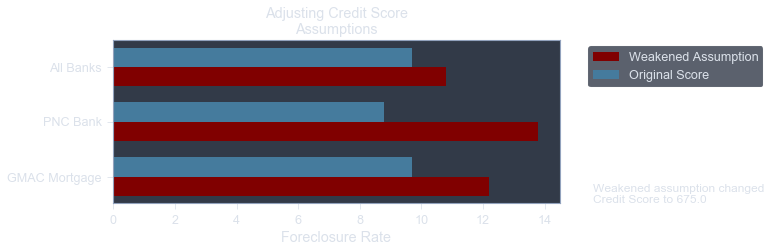
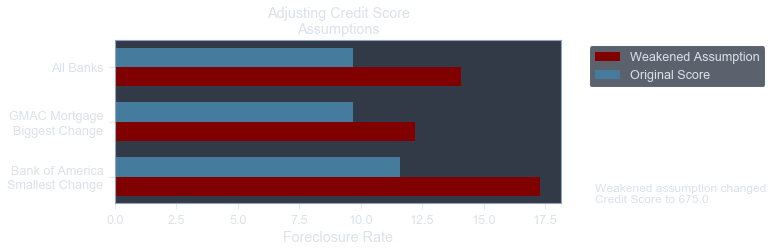
Regular update

diff --git a/Bad_Banking_Behavior/index.html b/Bad_Banking_Behavior/index.html
@@ -179,12 +179,23 @@ if (currentTheme) {
         
             <h1 id="Data">Data</h1>
             <p>
-                Text...
+                Most of the data comes from Fannie Mae’s Loan Acquisition and Performance Data.  This contains the target variable:  mortgage loan foreclosures.  Each observation represents a loan originating or refinanced between 2006-2008.  The Financial Crisis is often noted as occurring between 2007-2009; most loans that lend to housing foreclosures originated or were refinanced only a year to three years before foreclosure, leading to a peak in loans destined for foreclosure occurring in 2007.  Refinanced loans are limited to loans originating in fiscal year 2000 or later.  The data is further limited only to loans made by the nine largest banks at the peak of risking lending (2007).  Features modeled to predict foreclosures are limited to information known at the time of loan origination except for the date of last reporting (i.e., the window in which a foreclosure could have occurred and be in the dataset).  
+                <br><br>
+                Other data was used to model loan foreclosures.  See below for a list of data sources and see <a href=”Data Wrangling.html”>Data Wrangling </a> for information on the ETL process used to gather this data:
+                <br>
+                <ul><blockquote>
+                1) Fannie Mae Loan Acquisition and Performance Data [Individual Mortgage Loans],<br>
+                2) Past Fannie Mae Loan Acquisition Data [Changes in Loan Amounts],<br>
+                3) U.S. Census Bureau, Small Area Estimates Branch [Median Household Income by County],<br>
+                4) Federal Reserve Economic Data (FRED) [Macroeconomic Data related to the Housing Market],<br>
+                5) Federal Deposit Insurance Corporation (FDIC) Data [Information on FDIC-backed Banks]<br>
+                </ul></blockquote>
             </p>
+            <br>
+            
             <h2 id="Foreclosures">Foreclosures</h2>
-		<br><br>
             <p>
-                Mortgages made between 2006 – 2008 foreclosed at a rate of 9.7% among the top 9 banks.  These foreclosures peaked in 2007 at 10.2%.  Note, the research paper and **Data Mining** scripts show that these 9 banks issued loans more likely to be foreclosed upon than smaller banks, increasing this rate from the total U.S. rate.
+                Mortgages made between 2006–2008 foreclosed at a rate of 9.7% among the top 9 banks.  These foreclosures peaked in 2007 at 10.2%.  Note, the research paper and <a href=”Data Mining.html”>Data Mining</a> scripts show that these 9 banks issued loans more likely to be foreclosed upon than smaller banks, increasing this rate from the total U.S. rate.
                 <br><br>
                 Of importance, the average mortgage amount not only grew dramatically since the year 2001, but mortgage amounts on loans that were eventually foreclosed upon increased at a higher rate, matching (and briefly exceeding) the mortgage amounts on loans not foreclosed upon.  This implies that large banks may have been willing to make riskier loans for inflated housing prices.
             </p>
@@ -216,7 +227,6 @@ if (currentTheme) {
 		<br><br>
         
             <h2 id="Banks">Banks</h2>
-		<br><br>
             <p>
                 This research investigates the differences between the 9 largest banks.  Bank of America is the largest as defined by the sheer quantity of loans it made, While PNC is the smallest of the nine (note, this is not factoring in the amount of those loans).
                 <br><br>
@@ -237,14 +247,13 @@ if (currentTheme) {
         
         
             <h1 id="Methodology">Methodology</h1>
-		<br><br>
             <p>
                 The main challenge of modelling mortgage foreclosures is that they represent a rare event – defined as a dichotomous variable in which an occurrence of the event is low relative to cases in which that event could occur.  Consequently, counts in the numerator of the rate are expected to be small by comparison to the denominator.  Such small numerators in a target variable are known to create higher bias in estimation and, when forming a proportion, higher variance (King & Zeng, 2001).  In laymen terms, classification models are likely to become better at predicting non-occurrences than occurrences simply because there are more examples of non-occurrences to learn from.  This results in models over-predicting non-occurrences.  In very imbalanced datasets, this can result in zero predictions of an occurrence.
                 <br><br>
                 Further, the features in the Fannie Mae do not correlate well with foreclosures.  To this end, I linked many features from other data.  Still, it remains is difficult to predict foreclosures without overfitting the training data.  
                 <br><br>
                 To solve these two problems, I use two primary ensembling techniques.  The first, algorithm-based ensembling, rebalances the data to augment foreclosure predictions.  The second uses vote ensembling to increase generalization of each model’s results.            </p>        
-		<br><br>
+		
             <h6>Balancing Predictions</h6>
             <p>
                 The chart below displays a hypothetical dataset in which the target variable occurs at a rate of 20%.  In order to ensure a predictive model remains balanced in its learning from occurrences and non-occurrences, an analyst can use an artificial intervention to balance the classes.  One approach is to draw small samples with balanced classes.  These samples produce relatively weak and simple models, which are then ensembled into stronger predictions.
@@ -269,7 +278,6 @@ if (currentTheme) {
                 <img  id="First_Model_Table" src="Photos/First_Model_Table.png" alt="First_Model_Table" style="width:100%" />        
             </div>
         </div>
-		<br><br>            
             
             <h6>Voting Architecture</h6>
             <p>
@@ -285,9 +293,8 @@ if (currentTheme) {
             <div class="column1">
                 <img  id="Model_Ensembling_Architecture" src="Photos/Model_Ensembling_Architecture.png" alt="Model_Ensembling_Architecture" style="width:100%" />        
             </div>
-        </div>
+        </div>        
         
-        <br><br>
             <h6>Modeling Performance</h6>
         <div class="row">
             <div class="column66">
@@ -308,15 +315,19 @@ if (currentTheme) {
 		<br><br>            
         
         
-            <h1 id="Analysis">Analysis</h1>
+        <h1 id="Analysis">Analysis</h1>
             <p>
-                Analysis was conducted on the full dataset, combining the training, validation, and testing data.  
+                Analysis was conducted on the full dataset, combining the training, validation, and testing data.  Below contains information on five features:  credit score, debt-to-income ratio, loan-to-value ratio, median household income at the 3-digit zip code-level, and the dollar amount change in mortgage loans made 1 year ago and 5 years ago.  The latter feature was created by taking total loan amount during a fiscal year quarter for each bank within a 3-digit zip code.
+                <br><br>
+                Using data mining techniques, each feature was examined at each bank.  Then, the feature was replaced by an improved and a weakened assumption based on the inter-quartile range (25-75 percentiles) of the feature across all banks and predicted probabilities were generated to see what the expected foreclosure rate would be if each banks’ behavior were different.  For example, a high credit score is associated with fewer foreclosures.  Among all banks, the average credit score was 719 (on a scale of 300 to 850).  I modified the credit score at each bank to the 75th percentile—an improved assumption of a 770 credit score—and to the 25th percentile—a weakened assumption of 675 credit score.  I left all other feature values unchanged.  I ran these values through the saved model detailed in the section above and analyzed the change in foreclosure rates.  One can interpret the findings as:  “If GMAC Mortgage only lent to those with a credit score of 770, with all other considerations staying the same, its foreclosure rate is predicted to fall from 9.7% to 1%.”
             </p>
-            <h2 id="Credit-Score">Credit Score</h2>
 		<br><br>
+            <h2 id="Credit-Score">Credit Score</h2>
             <h6>Data Mining</h6>
             <p>
-                Text...
+                Credit score is perhaps the feature most directly associated with the performance of a mortgage loan as it is a measure of one’s past ability to pay off debt.  It contained large difference between loans foreclosed (with an average credit score of 668) and loans not destined to be foreclosed upon (with an average credit score of 722).  However, there is little difference between banks, ranging from the best actor PNC Bank (728) to worst actor GMAC Mortgage (710).  Notably, Wells Fargo Bank, boasting the lowest foreclosure rate, only possesses the third highest credit score, and Flagstar Bank, holding the highest foreclosure rate, only possesses the third lowest credit score.  
+                <br><br>
+                This seems to indicate that a change in targeting individuals with certain credit scores should highly influence foreclosure rates, but that banks appeared unwilling to change their credit score standards if other banks did not follow suit.
             </p>
         <div class="row">
             <div class="column5">
@@ -327,10 +338,9 @@ if (currentTheme) {
                 <img  id="Credit_Score_Bar" src="Photos/Credit_Score_Bar.png" alt="Credit_Score_Bar" style="width:100%" />        
             </div>
         </div>
-		<br><br>
             <h6>Model Predictions</h6>
             <p>
-                Text...
+                Overall, foreclosure rates are predicted to improve from 9.7% to 1.6% if all mortgage holders had a credit score of 770 and weaken to 14.1% if all mortgage holder had a credit score of 675.  The bank with the highest credit score, GMAC Mortgage, is predicted to have improved from 9.7% to 1%—a larger change than the bank with the lowest credit score, PNC Bank who is predicted to have improved from 8.8% to 3.1%.  However, PNC Bank is expected to have a larger change if credit scores were weakened to 675, from 8.8% to 13.8%, compared to GMAC mortgage’s 9.7% to 12.2%.  The worst foreclosure prediction was Bank of America, weakening from 11.6% to 17.3%.
             </p>
         <div class="row">
             <div class="column33">
@@ -341,10 +351,13 @@ if (currentTheme) {
                 <img  id="Predicted_Credit_Score_Worst_Bar" src="Photos/Predicted_Credit_Score_Worst_Bar.png" alt="Predicted_Credit_Score_Worst_Bar" style="width:100%" />        
             </div>
         </div>
+		    <h6>Main Point</h6> 
+            <p>
+                Credit score displayed a substantial relationship with foreclosures, but average credit scores differ little between banks.  GMAC Mortgage displayed a major swing when credit score assumptions improved.  Finally, the highest predicted foreclosure rate among all features analyzed in this section was when Bank of America’s credit score assumptions weakened.
+            </p>
 		<br><br>
 
             <h2 id="Debt-to-Income">Debt-to-Income Ratio</h2>
-		<br><br>
             <h6>Data Mining</h6>
             <p>
                 Text...
@@ -358,8 +371,6 @@ if (currentTheme) {
                 <img  id="DTI_Bar" src="Photos/DTI_Bar.png" alt="DTI_Bar" style="width:100%" />        
             </div>
         </div>
-        
-		<br><br>
             <h6>Model Predictions</h6>
             <p>
                 Text...
@@ -373,10 +384,13 @@ if (currentTheme) {
                 <img  id="Predicted_DTI_Worst_Bar" src="Photos/Predicted_DTI_Worst_Bar.png" alt="Predicted_DTI_Worst_Bar" style="width:100%" />        
             </div>
         </div>
+		    <h6>Main Point</h6> 
+            <p>
+                Text...
+            </p>
 		<br><br>
-
+        
             <h2 id="Loan-to-Value">Loan-to-Value Ratio</h2>
-		<br><br>
             <h6>Data Mining</h6>
             <p>
                 Text...
@@ -390,7 +404,6 @@ if (currentTheme) {
                 <img  id="LTV_Bar" src="Photos/LTV_Bar.png" alt="LTV_Bar" style="width:100%" />        
             </div>
         </div>
-		<br><br>
             <h6>Model Predictions</h6>
             <p>
                 Text...
@@ -404,10 +417,13 @@ if (currentTheme) {
                 <img  id="Predicted_LTV_Worst_Bar" src="Photos/Predicted_LTV_Worst_Bar.png" alt="Predicted_LTV_Worst_Bar" style="width:100%" />        
             </div>
         </div>
+		    <h6>Main Point</h6> 
+            <p>
+                Text...
+            </p>
 		<br><br>
 
             <h2 id="Median-Household-Income">Median Household Income</h2>
-		<br><br>
             <h6>Data Mining</h6>
             <p>
                 Text...
@@ -421,7 +437,6 @@ if (currentTheme) {
                 <img  id="MHI_Bar" src="Photos/MHI_Bar.png" alt="MHI_Bar" style="width:100%" />        
             </div>
         </div>
-		<br><br>
             <h6>Model Predictions</h6>
             <p>
                 Text...
@@ -448,10 +463,13 @@ if (currentTheme) {
                 <img  id="Predicted_MHI_Worst_Bar_Weakest" src="Photos/Predicted_MHI_Worst_Bar_Weakest.png" alt="Predicted_MHI_Worst_Bar_Weakest" style="width:100%" />        
             </div>
         </div>
+		    <h6>Main Point</h6> 
+            <p>
+                Text...
+            </p>
 		<br><br>
 
             <h2 id="Loan-Change">Loan Change Ratio</h2>
-		<br><br>
             <h6>Data Mining</h6>
             <p>
                 Text...
@@ -474,7 +492,6 @@ if (currentTheme) {
                 <img  id="LC5_Bar" src="Photos/LC5_Bar.png" alt="LC5_Bar" style="width:100%" />        
             </div>
         </div>
-		<br><br>
             <h6>Model Predictions</h6>
             <p>
                 Text...
@@ -490,10 +507,14 @@ if (currentTheme) {
                 <img  id="Predicted_LC5_Worst_Bar" src="Photos/Predicted_LC5_Worst_Bar.png" alt="Predicted_LC5_Worst_Bar" style="width:100%" />        
             </div>
         </div>
+		    <h6>Main Point</h6> 
+            <p>
+                Text...
+            </p>
 		<br><br>
 
+
             <h1 id="Conclusion">Conclusion</h1>
-		<br><br>
             <p>
                 Text...
             </p>
